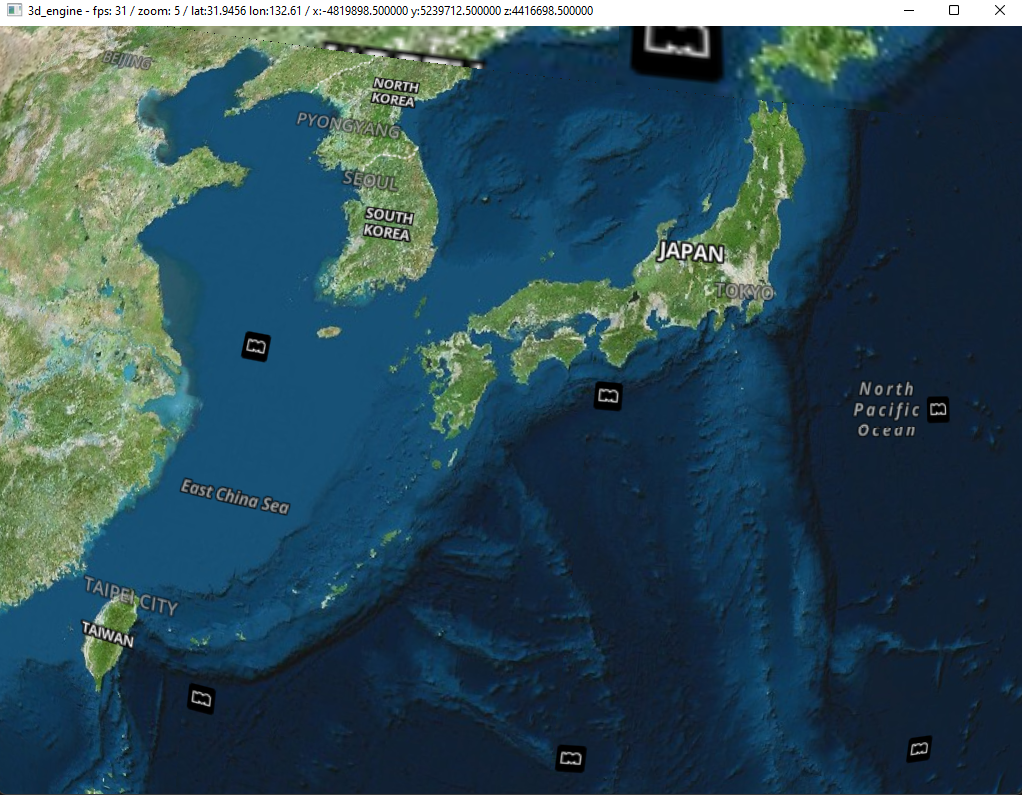
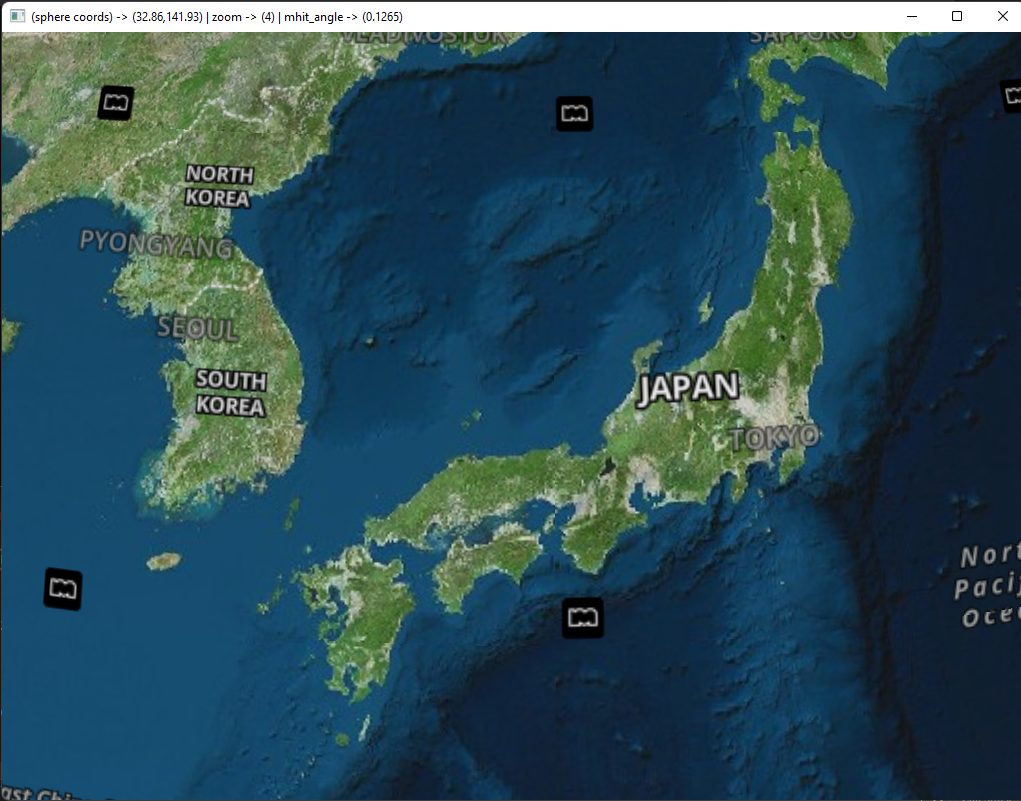
.

diff --git a/spheroid.cpp b/spheroid.cpp
@@ -101,9 +101,10 @@ void spheroid::process(ecs_s::registry& world, renderer_system& renderer) {
 	auto mouse_geo = ray_hit_to_geo(renderer.mouse_pos, vp, projection, view);
 	double hit_angle = ray_hit_to_angle(renderer.mouse_pos, vp, renderer.cam_->get_world_pos(), projection, view);
 
+	//|visible plates -> ({}) iv
 	//set title
-	std::string s_mgeo = std::format("(sphere coords) -> ({:02.2f},{:02.2f}) | zoom -> ({}) | mhit_angle -> ({:02.4f}) |visible plates -> ({})",
-		mouse_geo.x, mouse_geo.y, renderer.cam_->zoom_,  hit_angle, iv);
+	std::string s_mgeo = std::format("(sphere coords) -> ({:02.2f},{:02.2f}) | zoom -> ({}) | mhit_angle -> ({:02.4f}) ",
+		mouse_geo.x, mouse_geo.y, renderer.cam_->zoom_,  hit_angle );
 	de2::get_instance().set_title(s_mgeo);
 
 };

diff --git a/main.cpp b/main.cpp
@@ -13,10 +13,7 @@
 
 //https://github.com/ademirtug/de2/
 #include "de2.h"
-#include "util.h"
 #include "spheroid.h"
-#include "map_provider.h"
-
 
 using namespace std;
 using namespace ecs_s;
@@ -38,7 +35,7 @@ int main()
 	time(&rawtime);
 	float e2 = 2 * glm::pi<float>() * ((gmtime(&rawtime)->tm_hour) / 24.0);
 	renderer.l = std::make_shared<directional_light>(glm::vec3({ -cos(e2), sin(e2), 0 }));
-	//renderer.l = std::make_shared<directional_light>(glm::vec3({ 0, 0, -1 }));
+	//renderer.l = std::make_shared<directional_light>(glm::vec3({ -1, 1, 0 }));
 
 
 	auto alt = renderer.cam_->get_altitude(9);
